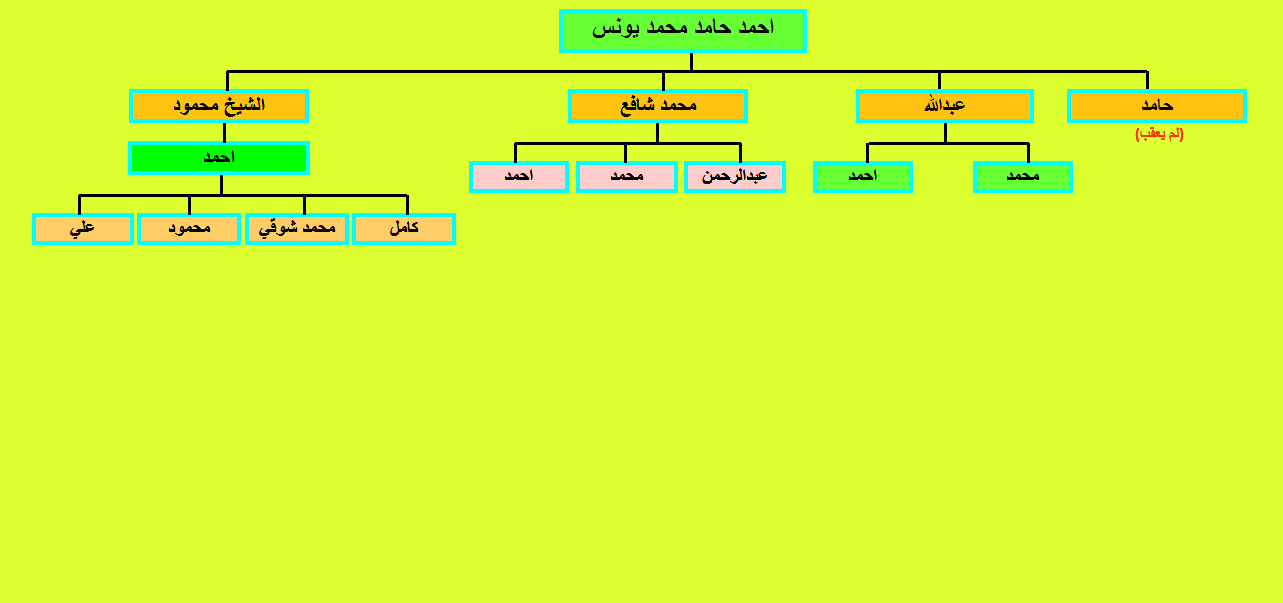
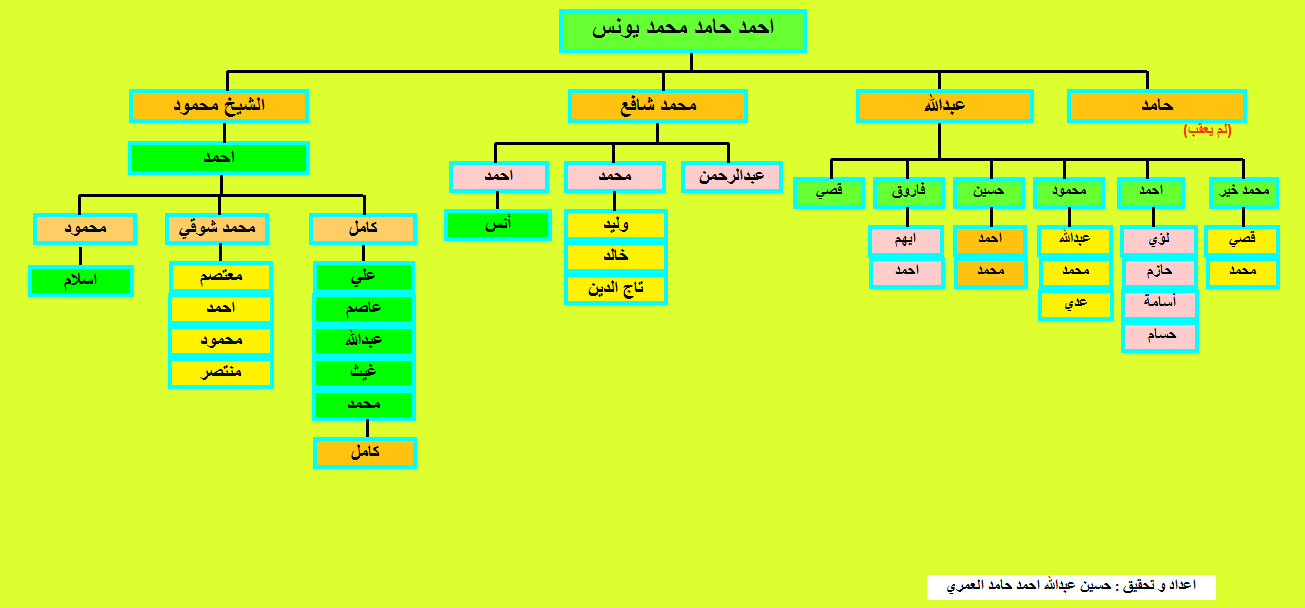
update

Changed region(s): [[0.0, 0.0, 0.9977, 0.7761], [0.6859, 0.9254, 0.9353, 1.0]]

diff --git a/Ahmad Hamed Mohammed.html b/Ahmad Hamed Mohammed.html
@@ -30,12 +30,12 @@ function FP_getObjectByID(id,o) {//v1.0
 </script>
 </head>
 
-<body style="background-color: #DEFF2F" onload="FP_preloadImgs(/*url*/'button1765.gif',/*url*/'button1766.gif')">
+<body onload="FP_preloadImgs(/*url*/'button1887.gif',/*url*/'button1888.gif')" style="background-color: #DEFF2F">
 
-<div id="layer1" style="position: absolute; width: 110px; height: 37px; z-index: 1; left: 10px; top: 15px">
+<div id="layer1" style="position: absolute; width: 112px; height: 37px; z-index: 1; left: 10px; top: 15px">
 	<a href="index.html">
-	<img id="img1" alt="الصفحة الرئيسية" height="22" onmousedown="FP_swapImg(1,0,/*id*/'img1',/*url*/'button1766.gif')" onmouseout="FP_swapImg(0,0,/*id*/'img1',/*url*/'button1767.gif')" onmouseover="FP_swapImg(1,0,/*id*/'img1',/*url*/'button1765.gif')" onmouseup="FP_swapImg(0,0,/*id*/'img1',/*url*/'button1765.gif')" src="button1767.gif" style="border: 0" width="112" /><!-- MSComment="ibutton" fp-style="fp-btn: Metal Capsule 3; fp-font-style: Bold; fp-transparent: 1" fp-title="الصفحة الرئيسية" --></a></div>
-<img alt="" height="603" src="Ahmad%20Hamed%20Mohammed.png" width="1283" />
+	<img id="img1" alt="الصفحة الرئيسية" height="23" onmousedown="FP_swapImg(1,0,/*id*/'img1',/*url*/'button1888.gif')" onmouseout="FP_swapImg(0,0,/*id*/'img1',/*url*/'button1889.gif')" onmouseover="FP_swapImg(1,0,/*id*/'img1',/*url*/'button1887.gif')" onmouseup="FP_swapImg(0,0,/*id*/'img1',/*url*/'button1887.gif')" src="button1889.gif" style="border: 0" width="113" /><!-- MSComment="ibutton" fp-style="fp-btn: Metal Capsule 3; fp-font-style: Bold; fp-transparent: 1" fp-title="الصفحة الرئيسية" --></a></div>
+<img alt="" height="608" src="Ahmad%20Hamed%20Mohammed.png" width="1305" />
 
 </body>
 

diff --git a/Yaseen-Zugut.html b/Yaseen-Zugut.html
@@ -65,7 +65,7 @@ function FP_getObjectByID(id,o) {//v1.0
 		<a href="Mohammed%20Hamed%20Mohammed.html">
 	<img id="img8" alt="جد الزقوط في سمر" height="22" onmousedown="FP_swapImg(1,0,/*id*/'img8',/*url*/'button1763.gif')" onmouseout="FP_swapImg(0,0,/*id*/'img8',/*url*/'button1764.gif')" onmouseover="FP_swapImg(1,0,/*id*/'img8',/*url*/'button1762.gif')" onmouseup="FP_swapImg(0,0,/*id*/'img8',/*url*/'button1762.gif')" src="button1764.gif" style="border: 0" width="110" /><!-- MSComment="ibutton" fp-style="fp-btn: Metal Capsule 6; fp-font-style: Bold; fp-font-size: 8; fp-transparent: 1" fp-title="جد الزقوط في سمر" --></a></div>
 	<div id="layer9" style="position: absolute; width: 109px; height: 29px; z-index: 2; left: 536px; top: 542px">
-		<a href="Ahamad%20Hamed%20Mohammed.html">
+		<a href="Ahmad%20Hamed%20Mohammed.html">
 	<img id="img9" alt="جد الزقوط في سمر" height="22" onmousedown="FP_swapImg(1,0,/*id*/'img9',/*url*/'buttonD72.gif')" onmouseout="FP_swapImg(0,0,/*id*/'img9',/*url*/'buttonB86.gif')" onmouseover="FP_swapImg(1,0,/*id*/'img9',/*url*/'buttonC107.gif')" onmouseup="FP_swapImg(0,0,/*id*/'img9',/*url*/'buttonC107.gif')" src="buttonB86.gif" style="border: 0" width="110" /><!-- MSComment="ibutton" fp-style="fp-btn: Metal Capsule 6; fp-font-style: Bold; fp-font-size: 8; fp-transparent: 1" fp-title="جد الزقوط في سمر" --></a></div>
 	<div id="layer10" style="position: absolute; width: 128px; height: 34px; z-index: 3; left: 155px; top: 408px">
 		<a href="ibraheem-ben%20ibraheem.html">
